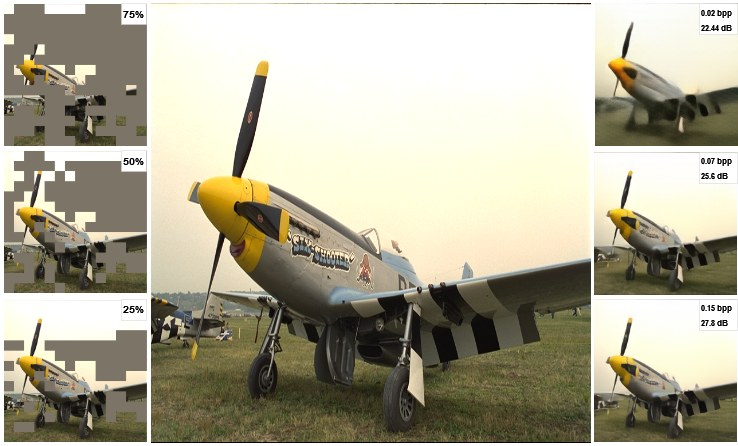
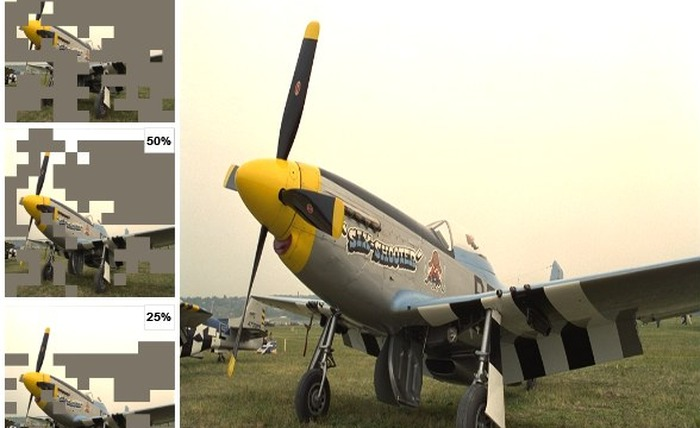
Fix research-page thumbnails that didn't fit their frame
- CARI: crop to 2 legible panels instead of 3 squeezed-together ones.
- DeQA: replace the abstract SVG placeholder with a real before/after
  portrait crop (Figure 1) extracted from the published paper PDF.
- HyRES: recrop to input parrots + compression step; the previous
  crop cut off both parrot photos and left an ugly cylinder centered.
- TextMAE: drop the redundant dB-labeled column and keep the masking
  progression next to the full photo; the previous crop was mostly
  dead sky with the plane barely visible.
- Cache-bust the three overwritten filenames with a query string.

diff --git a/research.html b/research.html
@@ -56,7 +56,7 @@
       <!-- ── CARI ───────────────────────────────── -->
       <div class="research-item">
         <a href="/research/cari/" class="research-thumb">
-          <img src="images/research/cari-thumb.jpg" alt="The same book photographed three times under different coloured lamps, side by side">
+          <img src="images/research/cari-thumb.jpg?v=2" alt="The same book photographed under two different coloured lamps, side by side">
         </a>
         <div class="research-content">
           <a href="/research/cari/" class="research-title">
@@ -89,26 +89,9 @@
 
       <!-- ── DeQA / IS&T EI 2026 ───────────────── -->
       <div class="research-item">
-        <div class="research-thumb" style="background: linear-gradient(135deg, #0b3a50 0%, #05141f 100%); padding: 0;">
-          <svg viewBox="0 0 210 128" xmlns="http://www.w3.org/2000/svg" style="width:100%;height:100%;">
-            <!-- portrait bust -->
-            <circle cx="52" cy="46" r="19" fill="rgba(56,189,248,0.18)" stroke="rgba(56,189,248,0.5)" stroke-width="1.2"/>
-            <path d="M28 96 Q28 68 52 68 Q76 68 76 96 Z" fill="rgba(56,189,248,0.14)" stroke="rgba(56,189,248,0.4)" stroke-width="1.2"/>
-            <!-- per-attribute score bars -->
-            <g font-family="JetBrains Mono, monospace" font-size="7" fill="#7dd3fc">
-              <text x="100" y="34">Exposure</text>
-              <rect x="100" y="38" width="86" height="5" rx="2.5" fill="rgba(255,255,255,0.08)"/>
-              <rect x="100" y="38" width="74" height="5" rx="2.5" fill="#38bdf8"/>
-              <text x="100" y="58">Texture</text>
-              <rect x="100" y="62" width="86" height="5" rx="2.5" fill="rgba(255,255,255,0.08)"/>
-              <rect x="100" y="62" width="58" height="5" rx="2.5" fill="#38bdf8"/>
-              <text x="100" y="82">Color</text>
-              <rect x="100" y="86" width="86" height="5" rx="2.5" fill="rgba(255,255,255,0.08)"/>
-              <rect x="100" y="86" width="80" height="5" rx="2.5" fill="#38bdf8"/>
-            </g>
-            <text x="100" y="112" font-family="JetBrains Mono, monospace" font-size="6.5" fill="#475569">VLM quality score</text>
-          </svg>
-        </div>
+        <a href="https://library.imaging.org/ei/articles/38/12/GENAI-179" class="research-thumb" target="_blank" rel="noopener">
+          <img src="images/research/deqa-thumb.jpg" alt="Same portrait scored for stronger texture (left) versus reduced noise (right), from the paper's Figure 1">
+        </a>
         <div class="research-content">
           <div class="research-award">
             <i class="fas fa-trophy"></i>&nbsp;Best Student Paper — IS&T Electronic Imaging 2026
@@ -136,7 +119,7 @@
       <!-- ── HyRES ──────────────────────────────── -->
       <div class="research-item">
         <a href="https://github.com/tmkhang1999/HyRES-Residual-Enhanced-Hybrid-Image-Compression" class="research-thumb" target="_blank" rel="noopener">
-          <img src="images/research/hyres-thumb.jpg" alt="HyRES residual compression pipeline">
+          <img src="images/research/hyres-thumb.jpg?v=2" alt="HyRES residual compression pipeline">
         </a>
         <div class="research-content">
           <a href="https://github.com/tmkhang1999/HyRES-Residual-Enhanced-Hybrid-Image-Compression" class="research-title" target="_blank" rel="noopener">
@@ -161,7 +144,7 @@
       <!-- ── TextMAE ─────────────────────────────── -->
       <div class="research-item">
         <a href="https://github.com/tmkhang1999/TextMAE-Image-Compression" class="research-thumb" target="_blank" rel="noopener">
-          <img src="images/research/textmae-thumb.jpg" alt="TextMAE masked reconstruction at varying rates">
+          <img src="images/research/textmae-thumb.jpg?v=2" alt="TextMAE masking progression alongside the reconstructed image">
         </a>
         <div class="research-content">
           <a href="https://github.com/tmkhang1999/TextMAE-Image-Compression" class="research-title" target="_blank" rel="noopener">
